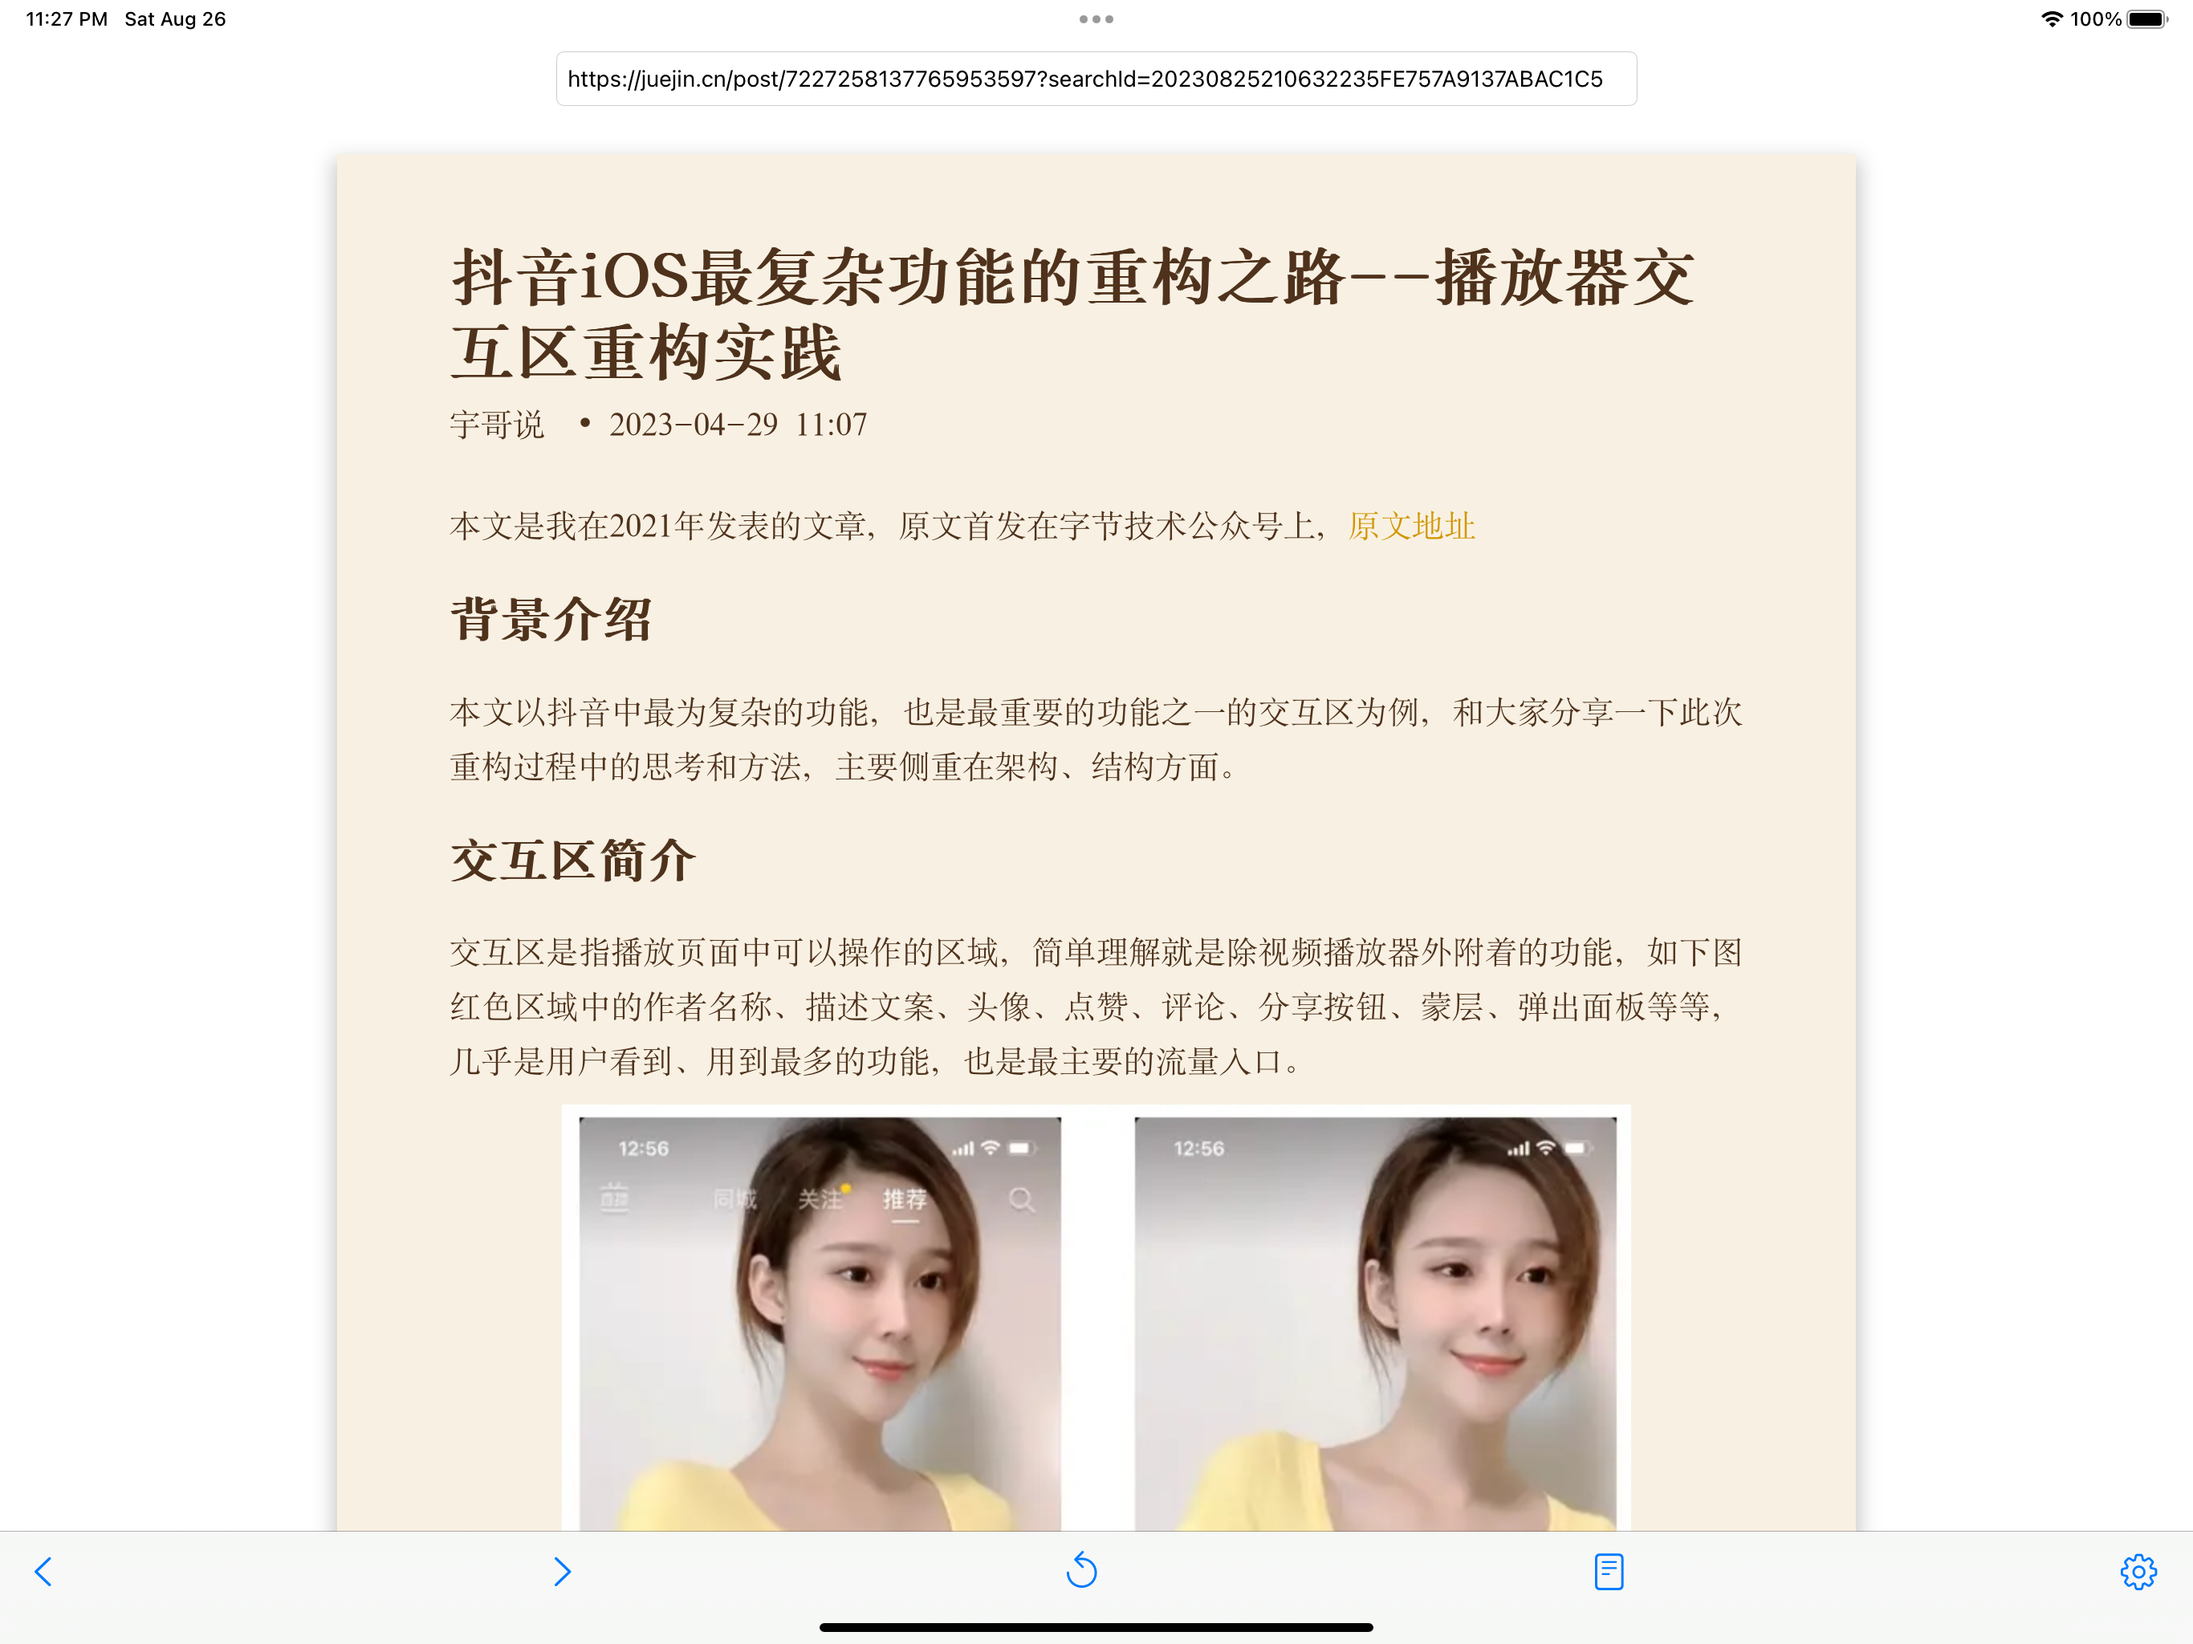
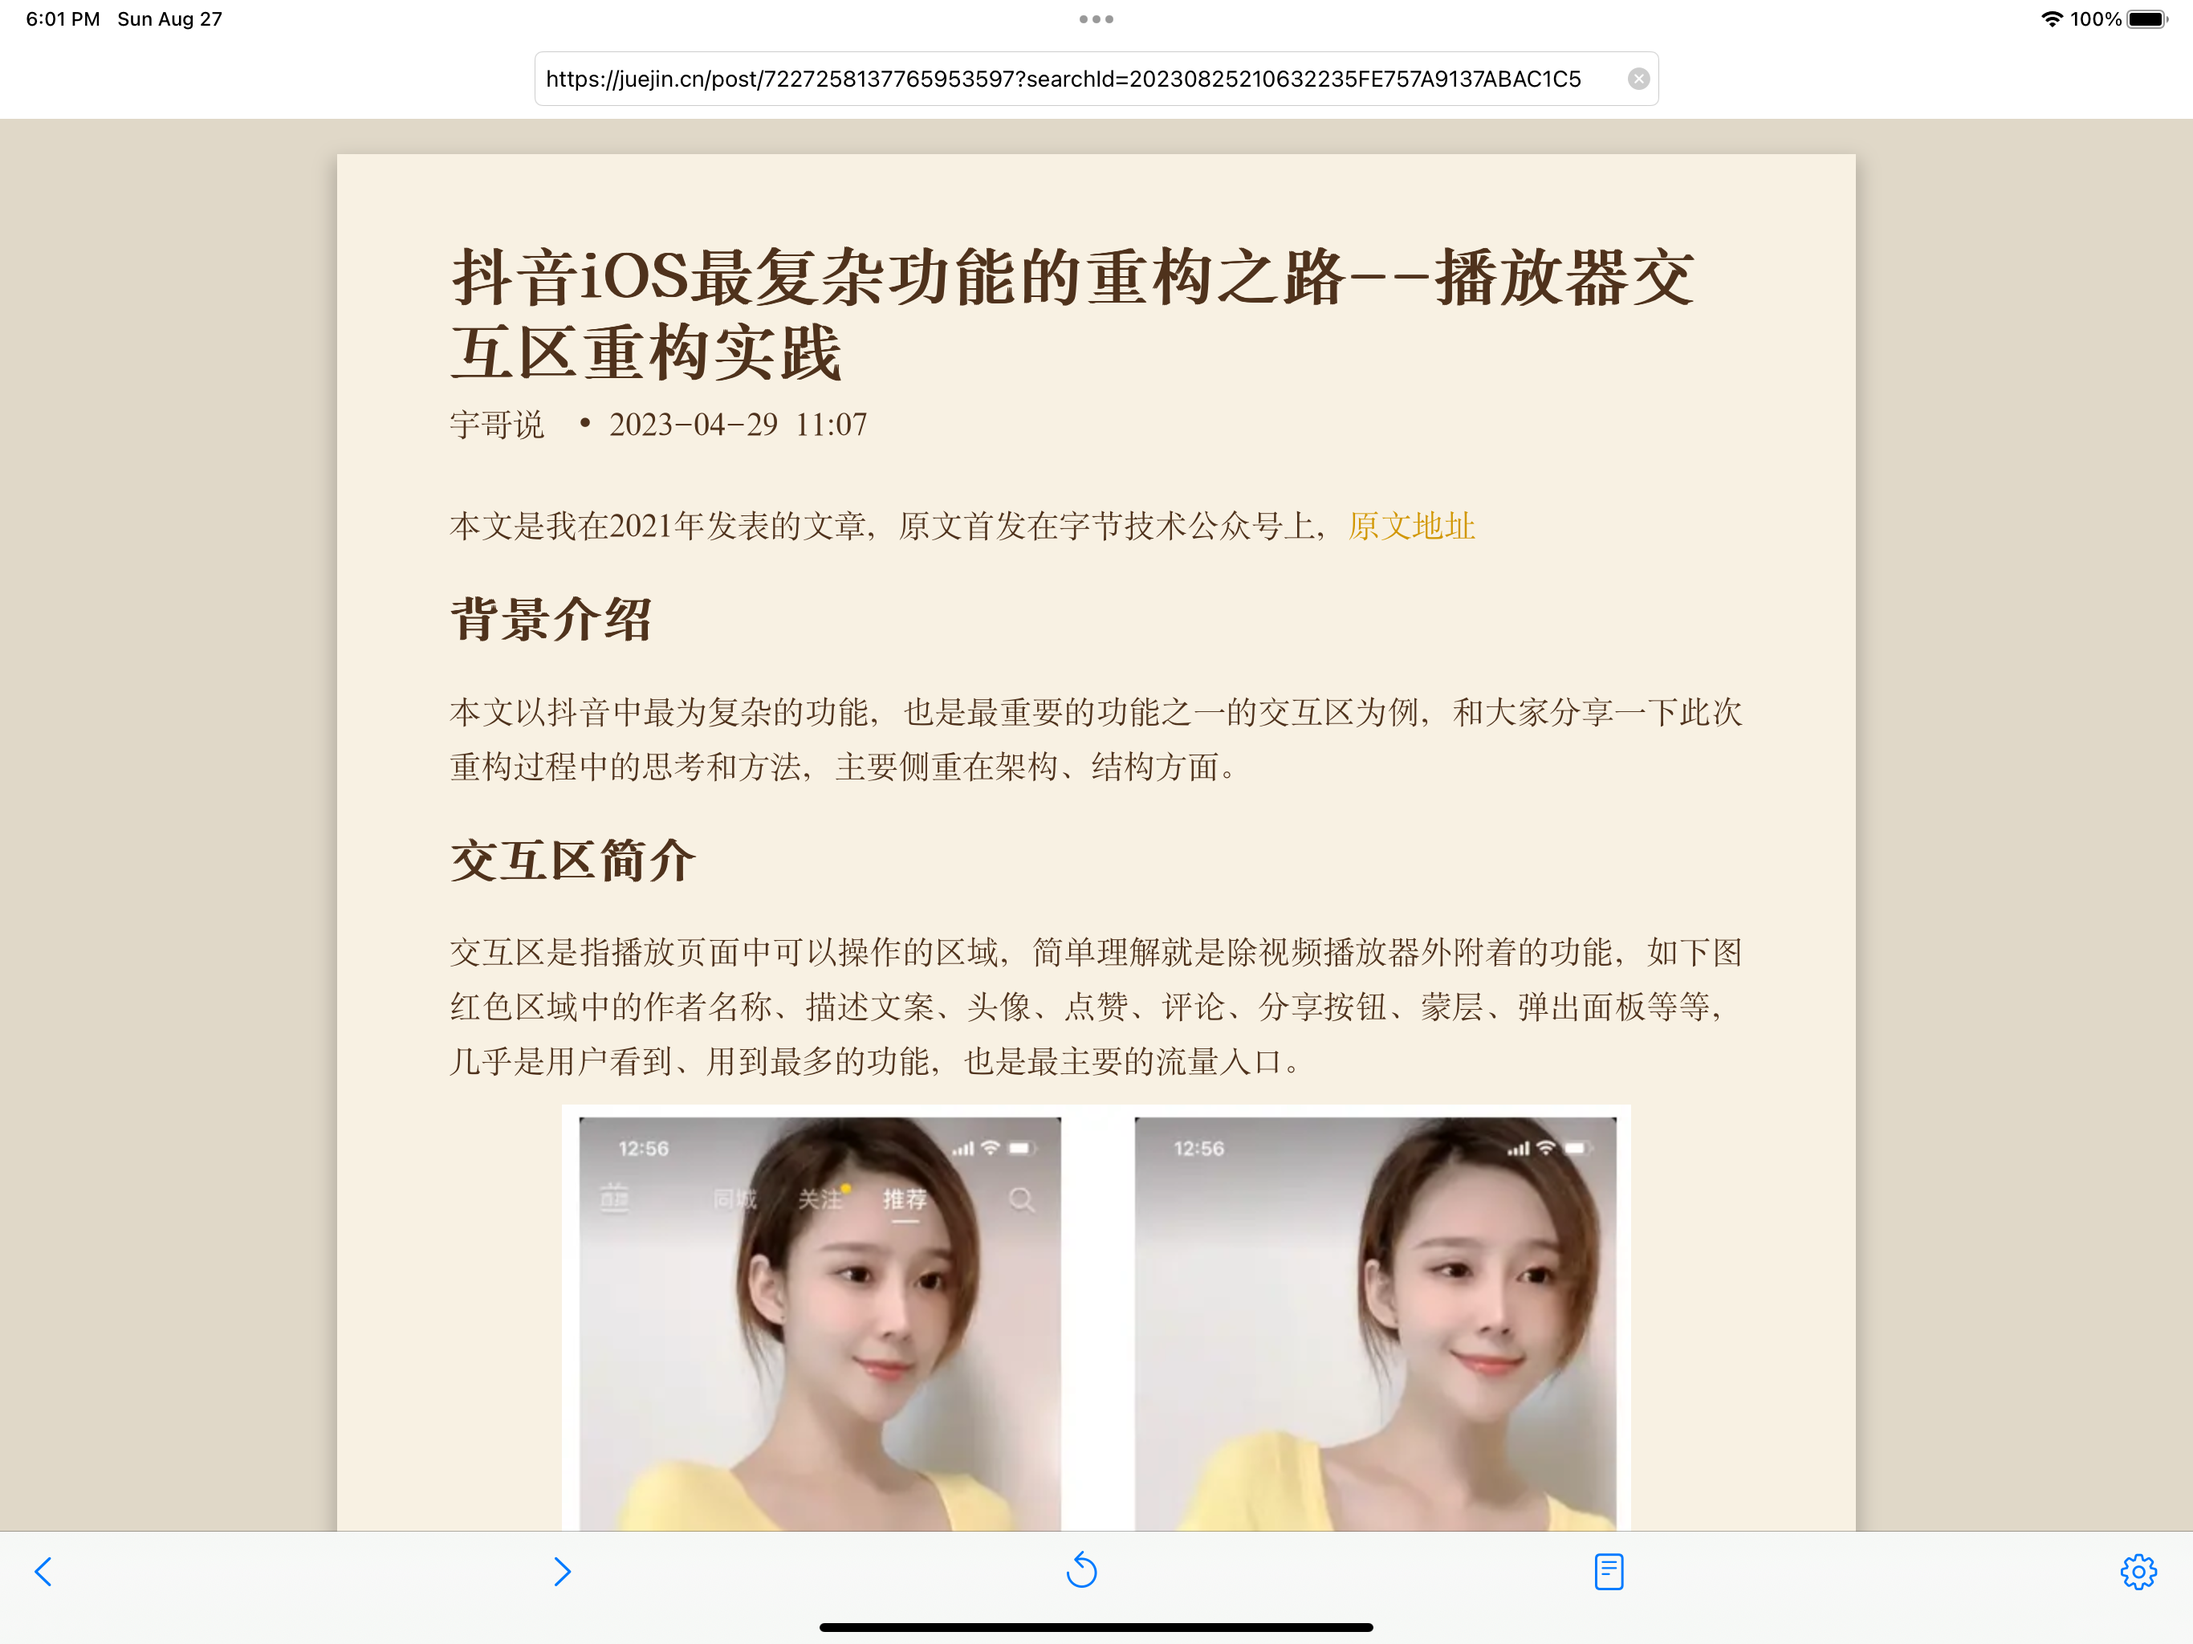
Update files.

Changed region(s): [[0.0, 0.0312, 1.0, 0.9375], [0.0311, 0.0, 0.0933, 0.0312]]

diff --git a/SafariReaderDemo/ViewController.swift b/SafariReaderDemo/ViewController.swift
@@ -169,7 +169,7 @@ class ViewController: UIViewController {
         locationBar.text = urls[0]
         ReaderManager.shared.readerConfiguration.setFont(.songtiSC, for: "zh-Hans")
         ReaderManager.shared.readerConfiguration.theme = .sepia
-        ReaderManager.shared.readerConfiguration.fontSize = 5
+        ReaderManager.shared.readerConfiguration.fontSize = 3
         webView.frame = webViewContainer.bounds
         webView.autoresizingMask = [.flexibleWidth, .flexibleHeight]
         webViewContainer.addSubview(webView)
